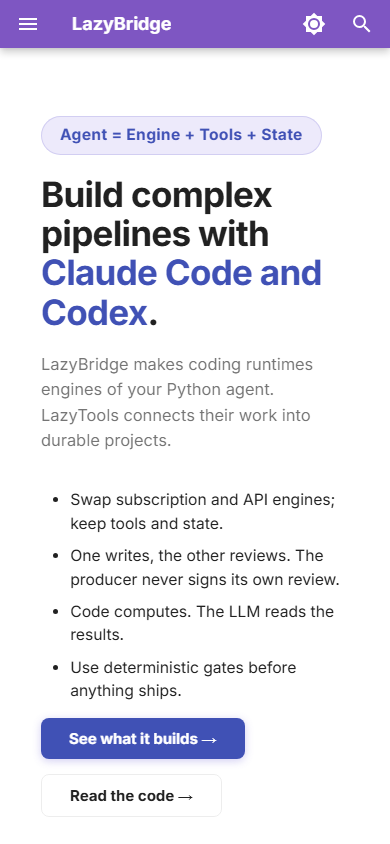
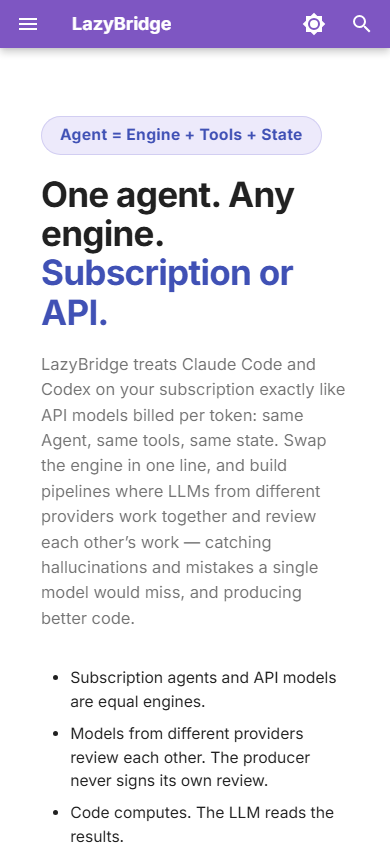
Homepage: LLMs from different providers review each other, catching hallucinations and mistakes a single model would miss

Changed region(s): [[0.0923, 0.4005, 0.8615, 1.0], [0.0923, 0.2156, 0.7692, 0.4005], [0.7385, 0.3081, 0.8308, 0.3389]]

diff --git a/docs/index.md b/docs/index.md
@@ -10,10 +10,10 @@ description: "Claude Code and Codex on your subscription, or any API model per t
   <div class="lb-hero__copy">
     <div class="lb-pill">Agent = Engine + Tools + State</div>
     <h1>One agent. Any engine. <span class="accent">Subscription or API.</span></h1>
-    <p class="lb-subhead">LazyBridge treats Claude Code and Codex on your subscription exactly like API models billed per token: same Agent, same tools, same state. Swap the engine in one line, and build complex pipelines where one engine writes and another reviews.</p>
+    <p class="lb-subhead">LazyBridge treats Claude Code and Codex on your subscription exactly like API models billed per token: same Agent, same tools, same state. Swap the engine in one line, and build pipelines where LLMs from different providers work together and review each other’s work — catching hallucinations and mistakes a single model would miss, and producing better code.</p>
     <ul class="lb-principles">
       <li>Subscription agents and API models are equal engines.</li>
-      <li>One writes, the other reviews. The producer never signs its own review.</li>
+      <li>Models from different providers review each other. The producer never signs its own review.</li>
       <li>Code computes. The LLM reads the results.</li>
       <li>Use deterministic gates before anything ships.</li>
     </ul>
@@ -72,14 +72,14 @@ gpt = Agent(engine=LLMEngine("gpt-6.1-sol"), **state)
 
 <div class="lb-demo lb-home-section" markdown="1">
 
-## One writes. The other reviews. {#collaboration}
+## Different providers, checking each other. {#collaboration}
 
 <div class="lb-demo__grid" markdown="1">
 <div markdown="1">
 
-**Make review a separate engine’s job.**
+**A second model from another provider reviews every output.**
 
-Give Claude Code the draft and Codex the review, or reverse the roles. The Agent verification loop brings reviewer feedback into the next attempt.
+Models trained differently make different mistakes: what one invents or overlooks, the other is likely to catch. Give Claude the draft and Codex the review — or any API model — and the Agent verification loop feeds the reviewer’s findings into the next attempt until the work passes.
 
 [How it works →](blog/posts/claude-writes-codex-reviews.md)
 
